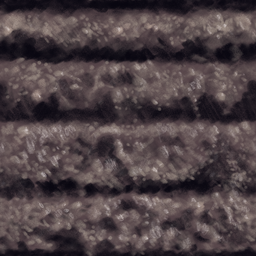
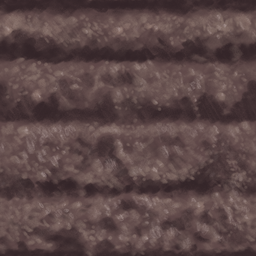
Add wet soil sprite and render soil textures under crops
Register tilled_wet.png for watered soil and render soil background
sprites (tilled/tilled_wet) underneath crop sprites in both PixiJS
and DOM renderers, so soil texture is always visible.

diff --git a/utils/pixi/TileLayer.ts b/utils/pixi/TileLayer.ts
@@ -362,6 +362,49 @@ export class TileLayer extends PixiLayer {
     const resolvedColor = ColorResolver.getTileColor(tileData.type);
     this.renderColorTile(x, y, resolvedColor, map, `${x},${y}_color`);
 
+    // Render soil texture under crop sprites (tilled for dry, tilled_wet for watered)
+    const soilKey = `${x},${y}_soil`;
+    const needsSoilBg = growthStage !== null && cropType;
+    const soilImageUrl = needsSoilBg
+      ? (tileData.type === TileType.SOIL_WATERED || tileData.type === TileType.SOIL_READY)
+        ? farmingAssets.tilled_wet
+        : farmingAssets.tilled
+      : null;
+
+    if (soilImageUrl) {
+      const soilTexture = textureManager.getTexture(soilImageUrl);
+      if (soilTexture) {
+        let soilSprite = this.sprites.get(soilKey);
+        if (!soilSprite || soilSprite instanceof PIXI.Graphics) {
+          if (soilSprite instanceof PIXI.Graphics) {
+            this.container.removeChild(soilSprite);
+            this.sprites.delete(soilKey);
+          }
+          soilSprite = new PIXI.Sprite(soilTexture);
+          soilSprite.x = x * TILE_SIZE;
+          soilSprite.y = y * TILE_SIZE;
+          soilSprite.width = TILE_SIZE;
+          soilSprite.height = TILE_SIZE;
+          soilSprite.zIndex = Z_TILE_BACKGROUND;
+          this.container.addChild(soilSprite);
+          this.sprites.set(soilKey, soilSprite);
+        } else if (soilSprite instanceof PIXI.Sprite) {
+          soilSprite.visible = true;
+          // Update texture if soil state changed (e.g. planted → watered)
+          const newTexture = textureManager.getTexture(soilImageUrl);
+          if (newTexture && soilSprite.texture !== newTexture) {
+            soilSprite.texture = newTexture;
+          }
+        }
+      }
+    } else {
+      // Hide soil sprite when not on a crop tile
+      const existingSoil = this.sprites.get(soilKey);
+      if (existingSoil) {
+        existingSoil.visible = false;
+      }
+    }
+
     if (!imageUrl) {
       // No sprite image to render, but hide existing sprite if present
       const spriteKey = `${x},${y}_sprite`;

diff --git a/components/TileRenderer.tsx b/components/TileRenderer.tsx
@@ -171,6 +171,21 @@ const TileRenderer: React.FC<TileRendererProps> = ({
                                 height: TILE_SIZE,
                             }}
                         >
+                            {growthStage !== null && cropType && (
+                                <img
+                                    src={(tileData.type === TileType.SOIL_WATERED || tileData.type === TileType.SOIL_READY)
+                                        ? farmingAssets.tilled_wet
+                                        : farmingAssets.tilled}
+                                    alt="Soil"
+                                    className="absolute"
+                                    style={{
+                                        left: 0,
+                                        top: 0,
+                                        width: TILE_SIZE,
+                                        height: TILE_SIZE,
+                                    }}
+                                />
+                            )}
                             {selectedImage && (
                                 <img
                                     src={selectedImage}

diff --git a/data/tiles.ts b/data/tiles.ts
@@ -920,12 +920,7 @@ export const TILE_LEGEND: Record<TileType, Omit<TileData, 'type'>> = {
     name: 'Watered Soil',
     color: 'bg-palette-espresso', // Very dark brown for wet soil
     collisionType: CollisionType.WALKABLE,
-    image: [farmingAssets.seedling], // Fallback image (overridden by growth stage in TileRenderer)
-    transforms: {
-      enableScale: true,
-      enableFlip: false, // Disabled - prevents sprites from shifting to adjacent tiles
-      scaleRange: { min: 1.3, max: 1.5 }, // Scale 130-150% for overlap effect
-    },
+    image: [farmingAssets.tilled_wet],
   },
   [TileType.SOIL_READY]: {
     name: 'Ready Crop',

diff --git a/assets.ts b/assets.ts
@@ -244,6 +244,7 @@ export const tileAssets = {
 export const farmingAssets = {
   fallow: '/TwilightGame/assets-optimized/farming/fallow01.png',
   tilled: '/TwilightGame/assets-optimized/farming/tilled01.png',
+  tilled_wet: '/TwilightGame/assets-optimized/farming/tilled_wet.png',
   seedling: '/TwilightGame/assets-optimized/farming/seedling.png',
   plant_pea_young: '/TwilightGame/assets-optimized/farming/plant_pea_young.png',
   plant_pea_adult: '/TwilightGame/assets-optimized/farming/plant_pea_adult.png',
